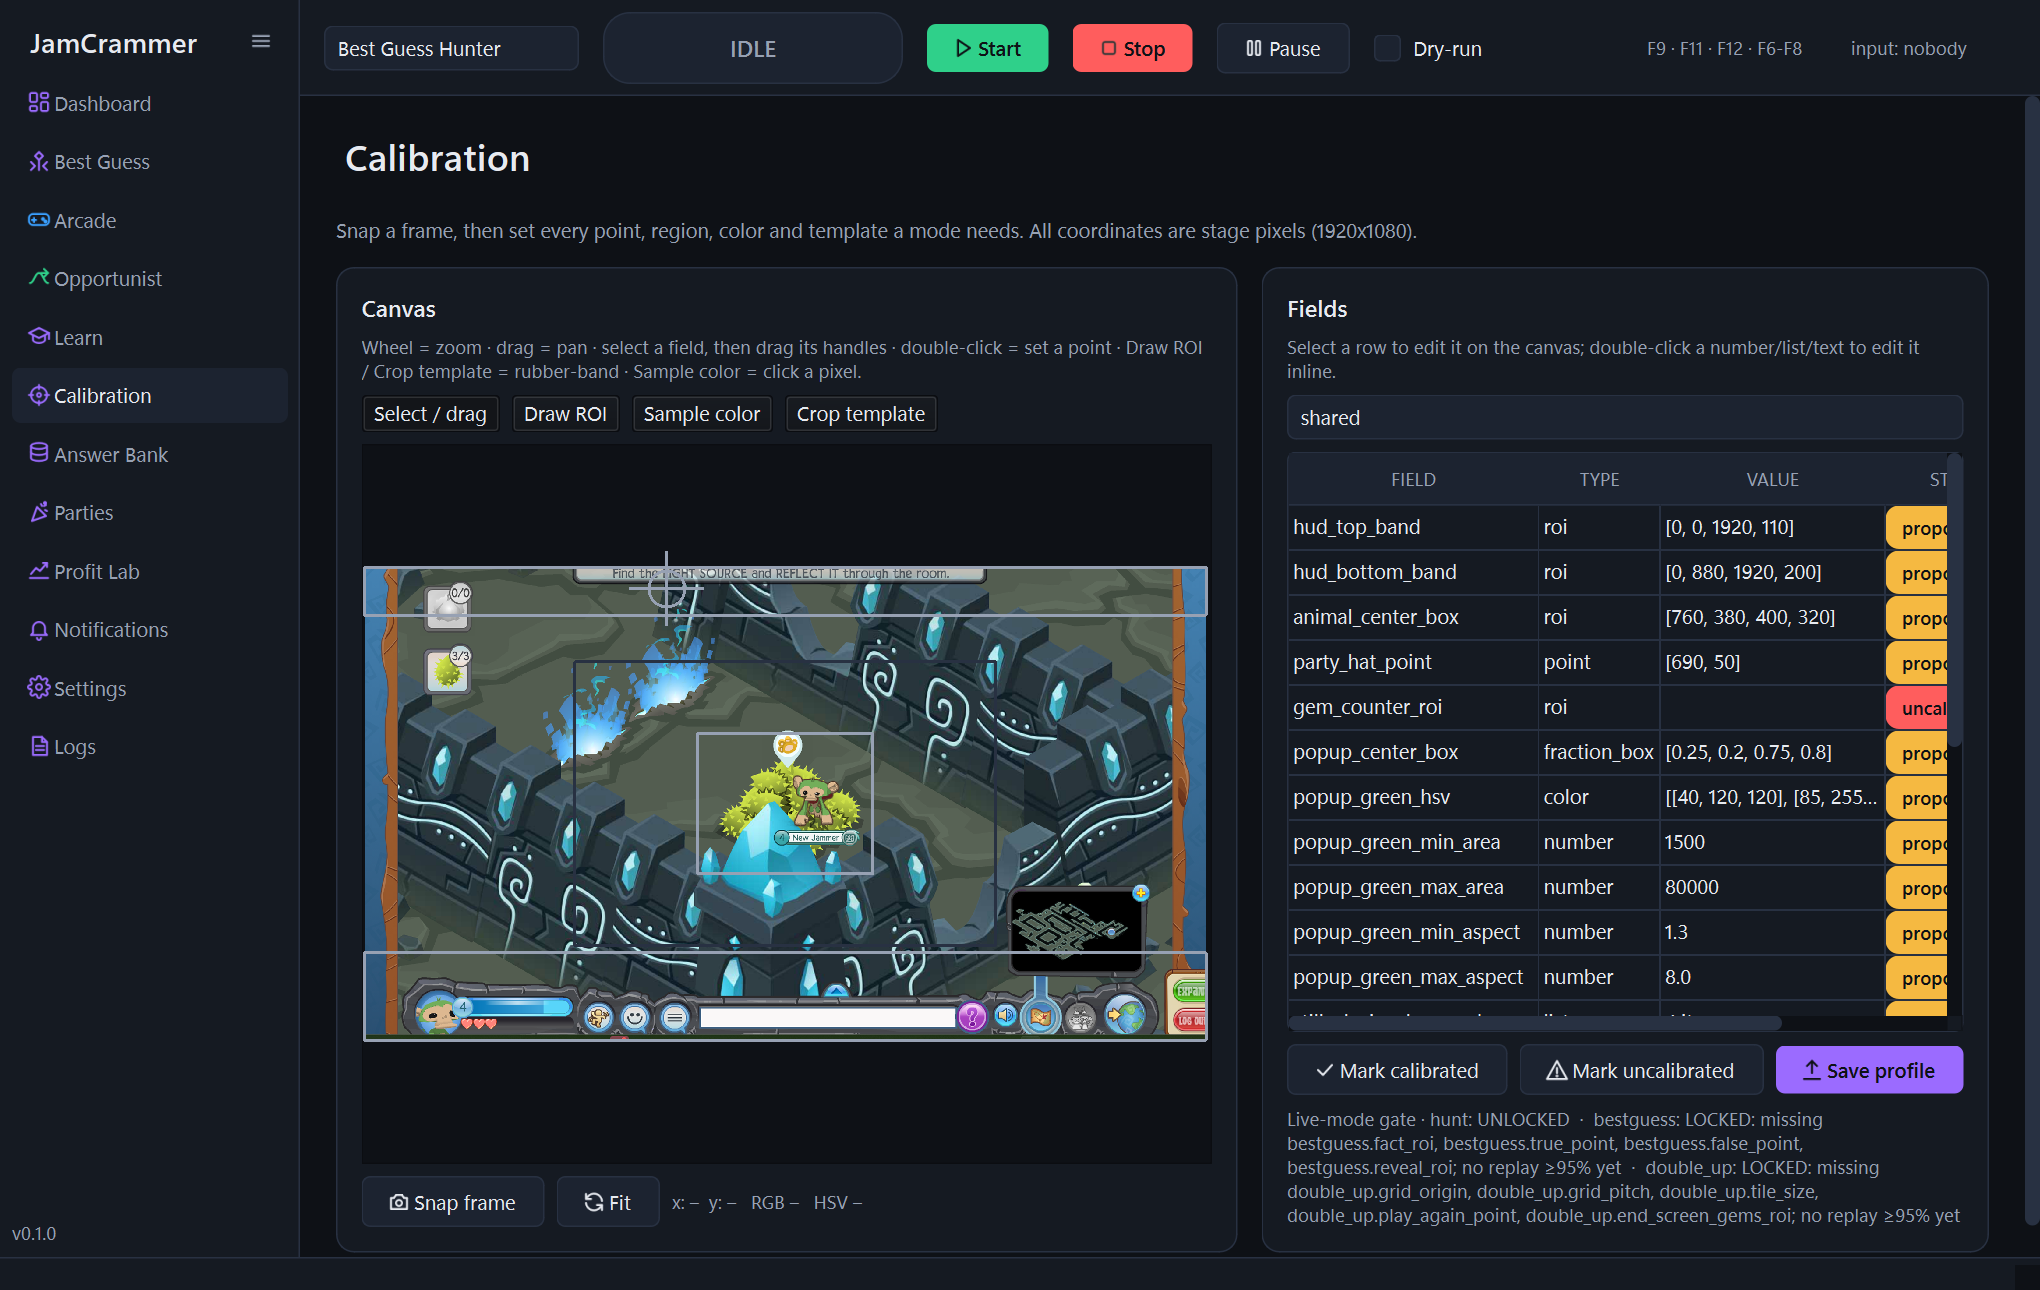
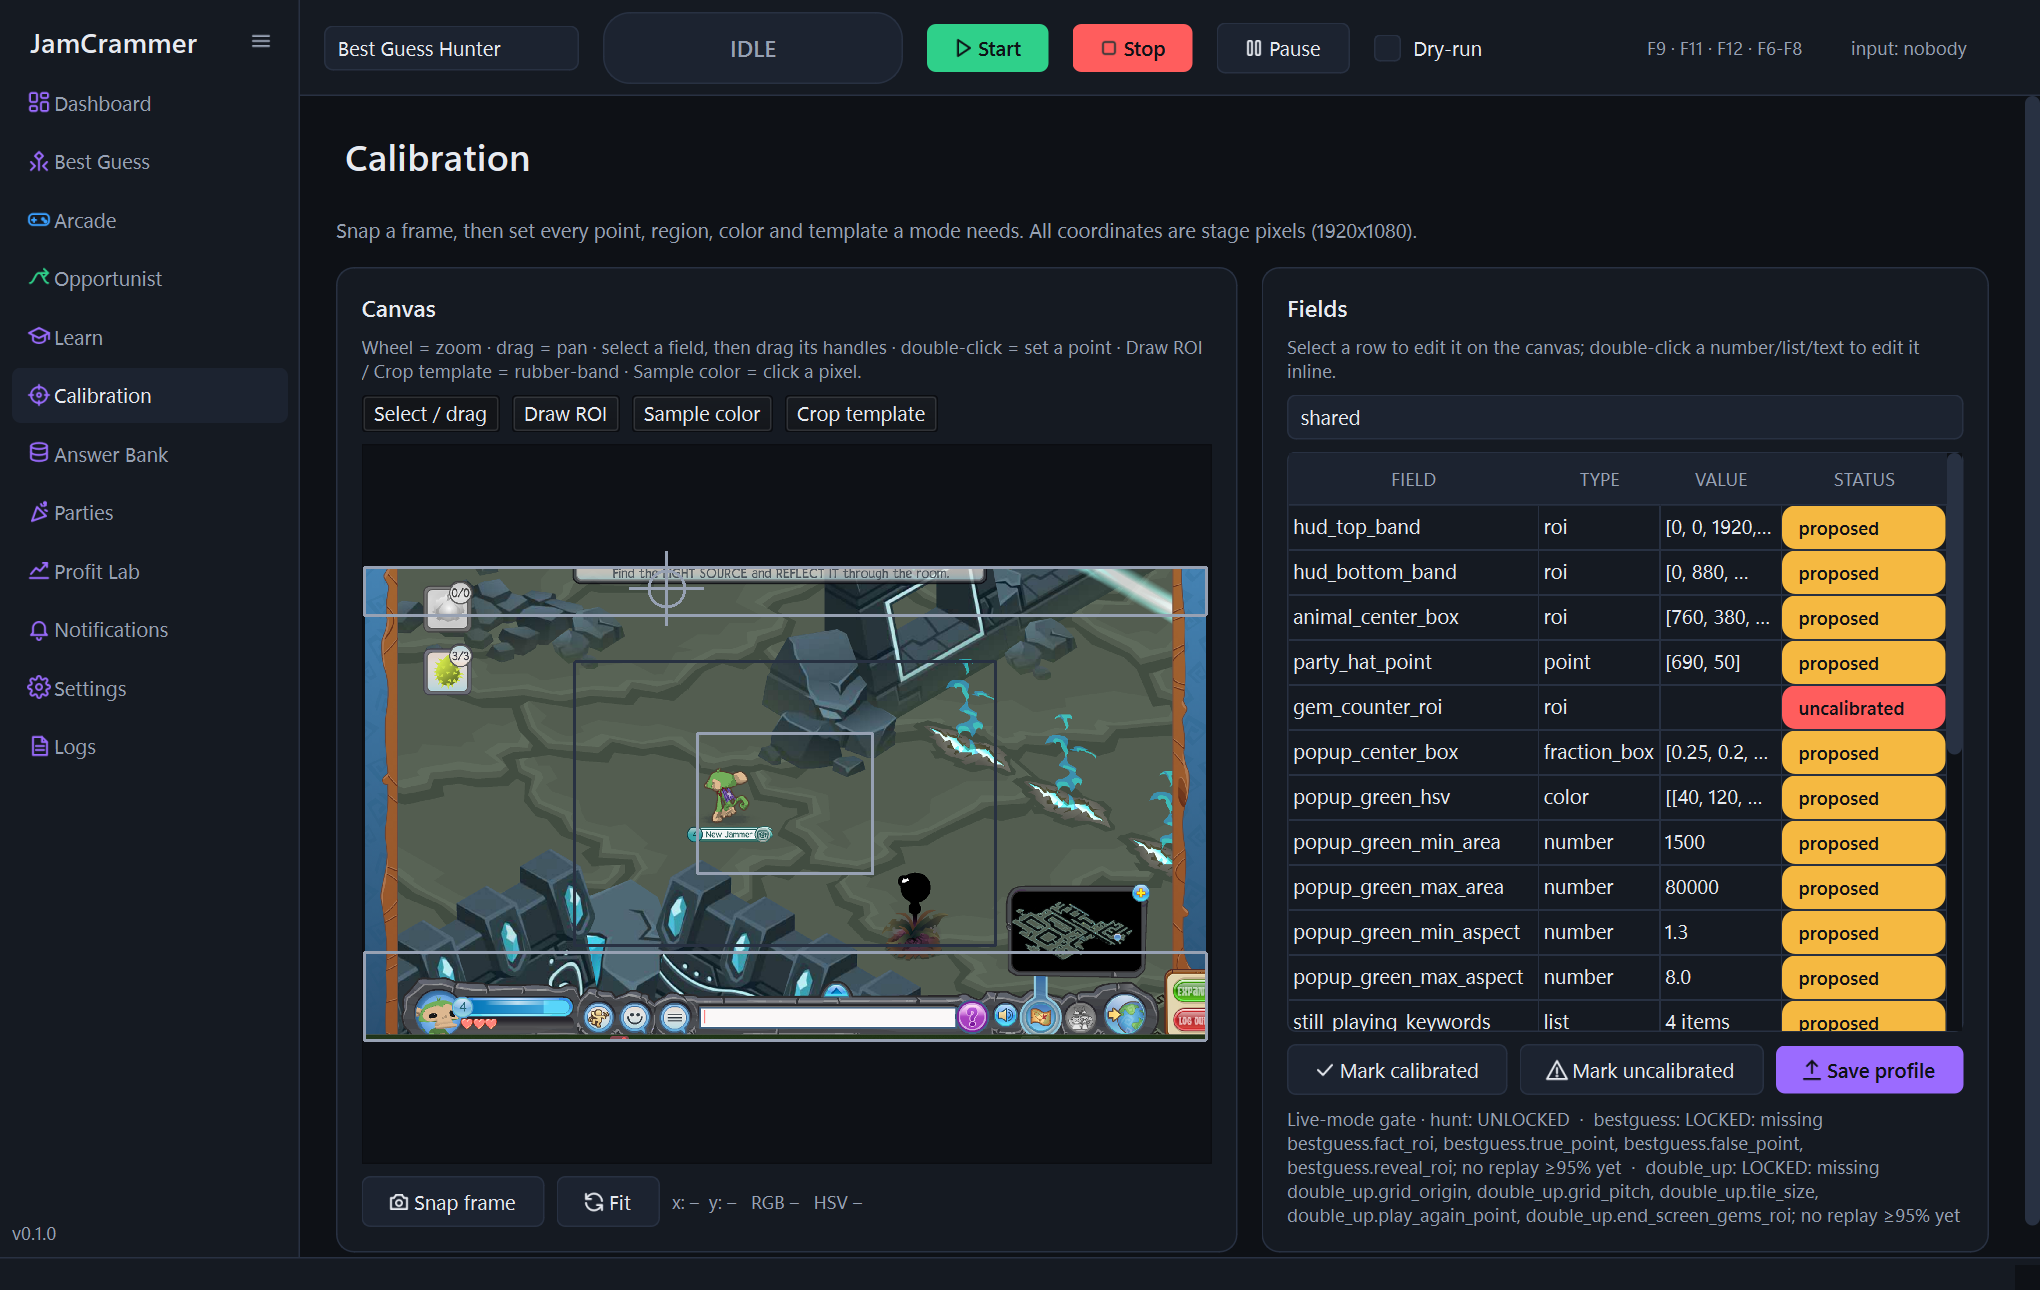
calibration: value column stretches, status column fixed so chips stay visible at 150%

Changed region(s): [[0.1853, 0.4341, 0.5868, 0.7752], [0.6176, 0.3721, 0.9574, 0.8062]]

diff --git a/jamcrammer/app/pages/calibration.py b/jamcrammer/app/pages/calibration.py
@@ -18,6 +18,7 @@ from PySide6.QtWidgets import (
     QGraphicsScene,
     QGraphicsView,
     QHBoxLayout,
+    QHeaderView,
     QInputDialog,
     QLabel,
     QTableWidget,
@@ -49,7 +50,7 @@ TOOLS = (
     ("template", "Crop template"),
 )
 GATE_MODES = ("hunt", "bestguess", "double_up")
-VALUE_COL_MAX_PX = 150
+STATUS_COL_PX = 110
 Roi = tuple[int, int, int, int]
 
 
@@ -242,7 +243,13 @@ class CalibrationPage(Page):
         fields.add(self.profile_box)
         self.table = QTableWidget(0, 4)
         self.table.setHorizontalHeaderLabels(["Field", "Type", "Value", "Status"])
-        self.table.horizontalHeader().setStretchLastSection(True)
+        header = self.table.horizontalHeader()
+        header.setStretchLastSection(False)
+        header.setSectionResizeMode(0, QHeaderView.ResizeMode.ResizeToContents)
+        header.setSectionResizeMode(1, QHeaderView.ResizeMode.ResizeToContents)
+        header.setSectionResizeMode(2, QHeaderView.ResizeMode.Stretch)
+        header.setSectionResizeMode(3, QHeaderView.ResizeMode.Fixed)
+        self.table.setColumnWidth(3, STATUS_COL_PX)
         self.table.verticalHeader().setVisible(False)
         self.table.setSelectionBehavior(QTableWidget.SelectionBehavior.SelectRows)
         self.table.setEditTriggers(QTableWidget.EditTrigger.NoEditTriggers)
@@ -461,8 +468,6 @@ class CalibrationPage(Page):
             if key == select:
                 self.table.selectRow(r)
         self.table.blockSignals(False)
-        self.table.resizeColumnsToContents()
-        self.table.setColumnWidth(2, min(self.table.columnWidth(2), VALUE_COL_MAX_PX))
         self.refresh_gate()
 
     def refresh_gate(self) -> None:
